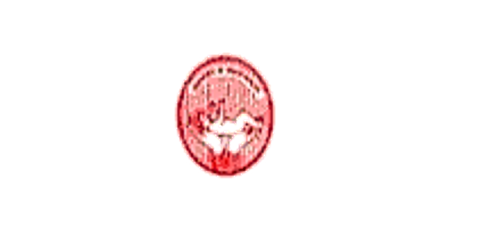
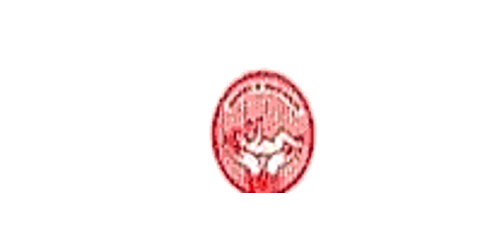
fix(clients): precision crop and unclip all 16 client emblems, restore inauguration heads, and optimize card padding

Changed region(s): [[0.3438, 0.2042, 0.6562, 0.8167]]

diff --git a/src/app/about/page.tsx b/src/app/about/page.tsx
@@ -620,14 +620,14 @@ export default function AboutPage() {
                   key={client}
                   className="bg-white p-4 rounded-2xl border border-brand-border shadow-2xs flex flex-col justify-between hover:border-brand-blue/50 hover:shadow-md transition-all duration-300 group"
                 >
-                  <div className="relative w-full h-16 rounded-xl bg-slate-50/90 border border-slate-100 p-2 flex items-center justify-center overflow-hidden mb-3 group-hover:bg-blue-50/30 group-hover:border-blue-100 transition-colors">
+                  <div className="relative w-full h-16 rounded-xl bg-white border border-slate-100 p-2.5 flex items-center justify-center overflow-hidden mb-3 group-hover:border-blue-200 group-hover:shadow-xs transition-colors">
                     {logo ? (
                       <Image
                         src={logo}
                         alt={`${client} official emblem`}
-                        width={150}
-                        height={55}
-                        className="max-h-full max-w-full object-contain group-hover:scale-105 transition-transform duration-300"
+                        width={160}
+                        height={80}
+                        className="max-h-11 max-w-[85%] w-auto h-auto object-contain group-hover:scale-105 transition-transform duration-300"
                       />
                     ) : (
                       <div className="w-8 h-8 rounded-lg bg-blue-50 flex items-center justify-center text-brand-blue">

diff --git a/src/app/clients/page.tsx b/src/app/clients/page.tsx
@@ -270,14 +270,14 @@ export default function ClientsPage() {
                 >
                   <div className="space-y-4">
                     {/* Official Client Photo / Logo Container */}
-                    <div className="relative w-full h-32 rounded-xl bg-white border border-slate-100 p-3.5 flex items-center justify-center overflow-hidden group-hover:border-blue-200 group-hover:shadow-xs transition-all">
+                    <div className="relative w-full h-32 rounded-xl bg-white border border-slate-100 p-4 flex items-center justify-center overflow-hidden group-hover:border-blue-200 group-hover:shadow-xs transition-all">
                       {client.logo ? (
                         <Image
                           src={client.logo}
                           alt={`${client.name} official emblem`}
                           width={240}
-                          height={90}
-                          className="max-h-full max-w-full object-contain transition-transform duration-300 group-hover:scale-105"
+                          height={120}
+                          className="max-h-20 max-w-[85%] w-auto h-auto object-contain transition-transform duration-300 group-hover:scale-105"
                         />
                       ) : (
                         <div className="w-12 h-12 rounded-xl bg-blue-50 border border-blue-100 flex items-center justify-center">

diff --git a/src/components/home/Clients.tsx b/src/components/home/Clients.tsx
@@ -50,14 +50,14 @@ export function Clients() {
             >
               <div className="space-y-3.5">
                 {/* Official Client Photo / Crest Showcase Container */}
-                <div className="relative w-full h-28 rounded-xl bg-white border border-slate-100 p-3 flex items-center justify-center overflow-hidden group-hover:border-blue-200 group-hover:shadow-xs transition-all">
+                <div className="relative w-full h-28 rounded-xl bg-white border border-slate-100 p-3.5 flex items-center justify-center overflow-hidden group-hover:border-blue-200 group-hover:shadow-xs transition-all">
                   {client.logo ? (
                     <Image
                       src={client.logo}
                       alt={`${client.name} official emblem`}
-                      width={220}
-                      height={80}
-                      className="max-h-full max-w-full object-contain transition-transform duration-300 group-hover:scale-105"
+                      width={240}
+                      height={120}
+                      className="max-h-16 max-w-[85%] w-auto h-auto object-contain transition-transform duration-300 group-hover:scale-105"
                     />
                   ) : (
                     <div className="w-10 h-10 rounded-lg bg-blue-50 border border-blue-100 flex items-center justify-center">
